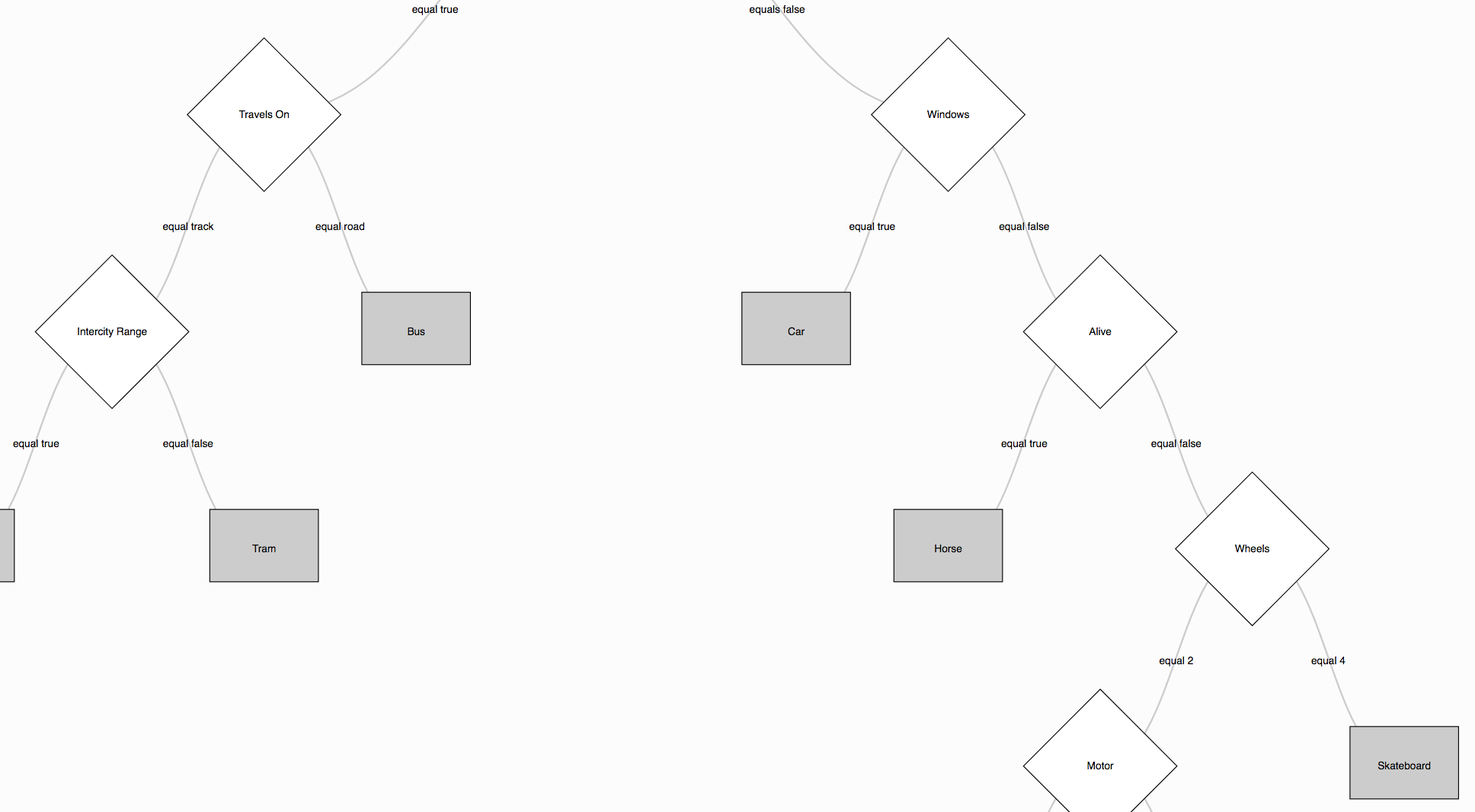
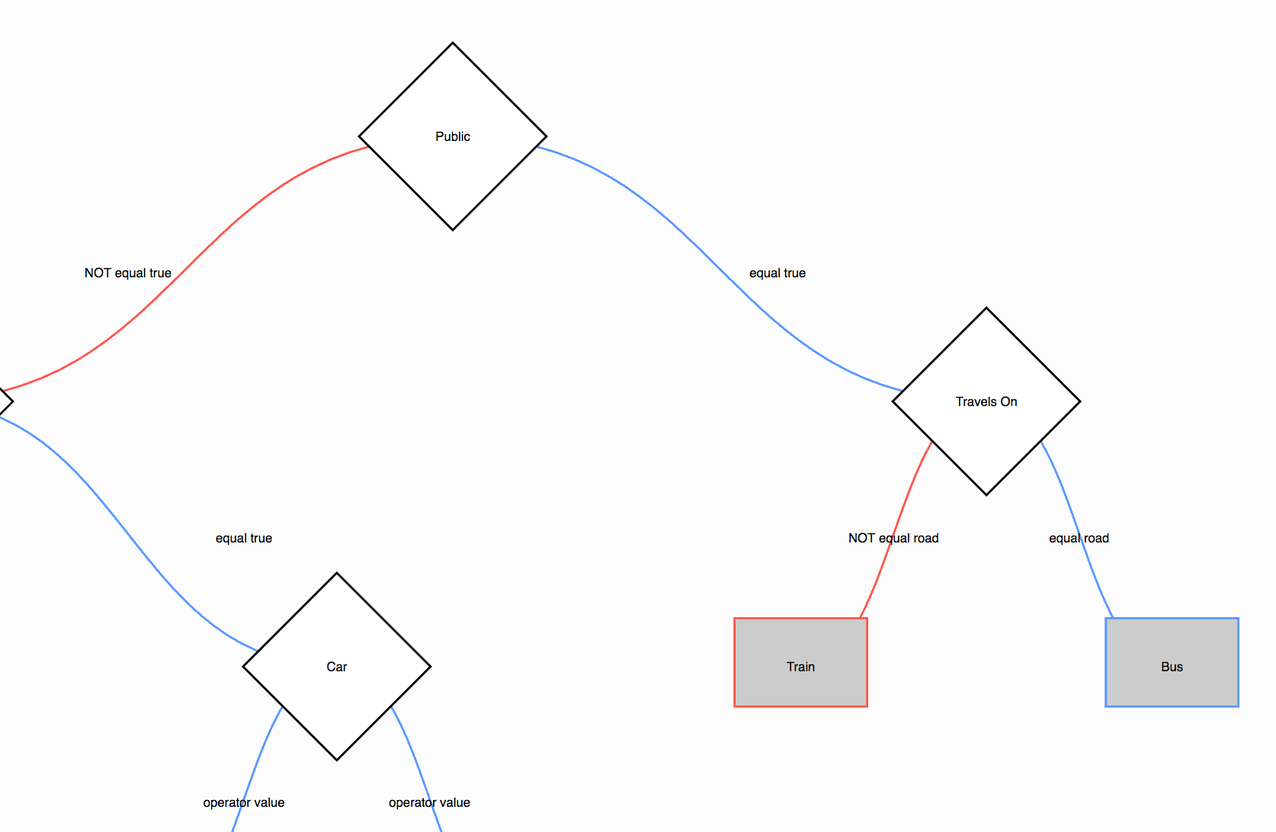
Add truthy/falsey link and node colouring

diff --git a/dist/decision-tree-builder.min.js b/dist/decision-tree-builder.min.js
@@ -1,1 +1,1 @@
-"use strict";!function(){var t=function(t,e){function r(t){var e=new CustomEvent("nodeClick",{detail:t});window.dispatchEvent(e)}function n(t,e,r){if(t){e(t);var a=r(t);if(a)for(var i=a.length,l=0;l<i;l++)n(a[l],e,r)}}function a(t,e){for(var r=t.length-1;r>=0;r--)for(var n=0;n<e.length;n++)t[r]&&t[r].id===e[n].id&&t.splice(r,1);return t}var i=e.layout.svgMargin,l=(e.layout.svgWidth-e.layout.svgMargin.left-e.layout.svgMargin.right,e.layout.svgHeight-e.layout.svgMargin.top-e.layout.svgMargin.bottom),d=e.layout.nodeWidth,o=e.layout.nodeHeight,c=e.layout.nodeMargin,s=e.layout.transitionDuration,h="#"+e.layout.divId,u=this,f=0;this.options=e,this.operatorFunctions=e.operatorFunctions,this.root=null,this.treeData=t,this.nodes=null,this.links=null,this.treemap=d3.tree().nodeSize([d+c.x,o+c.y]).separation(function(t,e){return t.parent==e.parent?1:1.25}),this.root=d3.hierarchy(this.treeData,function(t){return t.children});var p=d3.zoom().scaleExtent([.25,4]).on("zoom",function(){v.attr("transform","translate("+d3.event.transform.x+","+d3.event.transform.y+")scale("+d3.event.transform.k+")")}),y=d3.select(h).append("svg").attr("width","100%").attr("height",l+i.top+i.bottom).append("g").attr("transform","translate(0,-9999999) scale(1)").attr("id","treePanel"),v=d3.select("#treePanel"),g=d3.select("svg");g.call(p),this.queryDecisionTree=function(t){function e(r){return new Promise(function(n,i){r.children||n({result:r.data.classification,path:a});var l=r.data.property,d=r.children[1].data.operator,o=r.children[1].data.value,c=t[l],s=u.operatorFunctions[d];s(o,c).then(function(t){a+=t?1:0,n(t?e(r.children[1]):e(r.children[0]))})})}var r=this.treeData.descendants(),n=r[0],a="";return e(n)},this.cloneAndStripNode=function(t){function e(t){delete t.height,delete t.depth,delete t.id,delete t.parent,delete t.x,delete t.x0,delete t.y,delete t.y0,t.label=t.data.label,t.data.property&&(t.property=t.data.property),t.data.operator&&(t.operator=t.data.operator),t.data.hasOwnProperty("value")&&(t.value=t.data.value),t.data.classification&&(t.classification=t.data.classification),delete t.data,t.children&&t.children.forEach(function(t){e(t)})}var r=JSON.stringify(t,function(t,e){if("parent"!=t)return e});return r=JSON.parse(r),e(r),r},this.serialiseTreeToJSON=function(){function t(e){delete e.height,delete e.depth,delete e.id,delete e.parent,delete e.x,delete e.x0,delete e.y,delete e.y0,e.label=e.data.label,e.property=e.data.property,e.data.operator&&(e.operator=e.data.operator),e.data.hasOwnProperty("value")&&(e.value=e.data.value),e.data.classification&&(e.classification=e.data.classification),delete e.data,e.children&&e.children.forEach(function(e){t(e)})}var e=this.treeData.descendants(),r=JSON.stringify(e[0],function(t,e){if("parent"!=t)return e});return r=JSON.parse(r),t(r),JSON.stringify(r)},this.pruneNode=function(t){t.children&&t.children.length>0&&(delete t.children,delete t.data.children,this.update(t))},this.deleteNode=function(t){var e=this;n(this.treeData,function(r){if(r.children){var n=!0,i=!1,l=void 0;try{for(var d,o=r.children[Symbol.iterator]();!(n=(d=o.next()).done);n=!0){var c=d.value;if(c==t){r.children=a(r.children,[c]),e.update(e.root);break}}}catch(s){i=!0,l=s}finally{try{!n&&o["return"]&&o["return"]()}finally{if(i)throw l}}}},function(t){return t.children&&t.children.length>0?t.children:null})},this.updateNodeData=function(t,e){t.data=e,this.update(t)},this.updateDecisionNodeData=function(t,e){t.data.property=e.property,t.data.label=e.label,t.data.children||(t.data.children=[]),t.data.children[0].property=e.children[0].property,t.data.children[0].label=e.children[0].label,t.data.children[0].hasOwnProperty("value")&&(t.data.children[0].value=e.children[0].value),t.data.children[0].hasOwnProperty("operator")&&(t.data.children[0].operator=e.children[0].operator),t.data.children[0].hasOwnProperty("classification")&&(t.data.children[0].classification=e.children[0].classification),t.data.children[1].property=e.children[1].property,t.data.children[1].label=e.children[1].label,t.data.children[1].value=e.children[1].value,t.data.children[1].operator=e.children[1].operator,t.data.children[1].hasOwnProperty("classification")&&(t.data.children[1].classification=e.children[1].classification),this.update(t),this.setHighlighted(t,!0)},this.addChildNodes=function(t,e){t.children&&2==t.children.length||(e.forEach(function(e){var r=d3.hierarchy(e);r.depth=t.depth+1,r.height=t.height-1,r.parent=t,r.id=+new Date+parseInt(1e4*Math.random()),t.children||(t.children=[],t.data.children=[]),t.children.push(r),t.data.children.push(r.data)}),this.update(t),this.setHighlighted(t,!0),r(t))},this.centerNode=function(t){var e=d3.zoomTransform(g.node()),r=-t.y0,n=-t.x0;r=r*e.k+u.options.layout.svgWidth/2,n=n*e.k+u.options.layout.svgHeight/2,g.transition().duration(s).call(p.transform,d3.zoomIdentity.translate(r,n).scale(e.k))},this.collapse=function(t){t.children&&(t._children=t.children,t._children.forEach(u.collapse),t.children=null)},this.expand=function(t){t._children&&(t.children=t._children,t.children.forEach(u.expand),t._children=null)},this.collapseAll=function(){this.root.children.forEach(u.collapse),this.update(root)},this.expandAll=function(){this.root.children.forEach(u.expand),this.update(root)};var x=void 0;this.setHighlighted=function(t,e){return d3.selectAll(".node").select("rect").style("fill",function(t){return t._children||t.children?"#FFF":"#CCC"}),t&&t.id!=x||t.id&&e?(d3.select("#node-"+t.id).select("rect").style("fill","#10B0F0"),x=t.id,!0):(x=null,!1)},this.fitBounds=function(t,e){var r=v.node().getBBox(),n=v.node().parentElement,a=n.clientWidth,i=n.clientHeight,l=r.width,d=r.height,o=r.x+l/2,c=r.y+d/2;if(0!=l&&0!=d){var s=(t||.75)/Math.max(l/a,d/i),h=[a/2-s*o,i/2-s*c];g.transition().duration(e||0).call(p.transform,d3.zoomIdentity.translate(h[0],h[1]).scale(s))}},this.adjustBounds=function(t){g.transition().duration(t.duration||0).call(p.translateBy,t.x,t.y)},this.update=function(t){function e(t,e){var r="M "+t.x+" "+t.y+"\n\t\t\t\t            C "+(t.x+e.x)/2+" "+t.y+",\n\t\t\t\t              "+(t.x+e.x)/2+" "+e.y+",\n\t\t\t\t              "+e.x+" "+e.y;return r}function n(t){var e=u.setHighlighted(t,!1);r(e?t:null)}this.treeData=this.treemap(this.root),this.nodes=this.treeData.descendants(),this.links=this.treeData.descendants().slice(1),this.nodes.forEach(function(t){t.y=t.depth*c.y});var a=y.selectAll("g.node").data(u.nodes,function(t){return t.id||(t.id=++f)}),i=a.enter().append("g").attr("class","node").attr("id",function(t){return"node-"+t.id}).attr("transform",function(e){if(t.x0)return"translate("+t.x0+","+t.y0+")"}).on("click",n),l=a.selectAll("rect.node-rect");i.append("rect").attr("width",d/2).attr("class","node-rect").attr("height",function(t){return t._children||t.children?o/2:o/3}).attr("transform",function(t){return t._children||t.children?"rotate(45)":""}).attr("x",-(d/4)).attr("y",function(t){return t._children||t.children?-(o/4):-(o/5.5)}).attr("stroke","black").attr("stroke-width",2).attr("cursor","pointer").style("fill",function(t){return t._children||t.children?"#FFF":"#CCC"}),l.attr("height",function(t){return t._children||t.children?o/2:o/3}).attr("transform",function(t){return t._children||t.children?"rotate(45)":""}).attr("x",-(d/4)).attr("y",function(t){return t._children||t.children?-(o/4):-(o/5.5)}).style("fill",function(t){return t._children||t.children?"#FFF":"#CCC"});var h=a.selectAll("text.node-label");h.empty()||h.size()!=this.nodes.length?i.append("text").attr("dy",".35em").attr("class","node-label").attr("text-anchor","middle").text(function(t){return t.data.label}):h.text(function(t){return t.data.label});var p=a.selectAll("text.link-label");p.empty()||p.size()!=this.nodes.length?i.append("text").attr("dy",".65em").attr("class","link-label").attr("x",function(t){if(t.parent)return(t.parent.x-t.x)/2}).attr("y",function(t){if(t.parent)return(t.parent.y-t.y)/2}).attr("text-anchor","middle").text(function(t){if(t.parent)return t.data.operator&&t.data.hasOwnProperty("value")?t.data.operator+" "+t.data.value:"NOT "+t.parent.children[1].data.operator+" "+t.parent.children[1].data.value}):p.text(function(t){if(t.parent)return t.data.operator&&t.data.hasOwnProperty("value")?t.data.operator+" "+t.data.value:"NOT "+t.parent.children[1].data.operator+" "+t.parent.children[1].data.value});var v=i.merge(a);v.transition().duration(s).attr("transform",function(t){return"translate("+t.x+","+t.y+")"}),v.select("rect.node").attr("width",d).attr("height",o).style("fill",function(t){return t._children?"lightsteelblue":"#fff"}).attr("cursor","pointer");var g=a.exit().transition().duration(s).attr("transform",function(e){return"translate("+t.x+","+t.y+")"}).remove();g.select("rect").attr("width",0).attr("height",0),g.select("text").style("fill-opacity",1e-6);var x=y.selectAll("path.link").data(u.links,function(t){return t.id}),m=x.enter().insert("path","g").attr("class","link").attr("d",function(r){if(!t.x0)return e({x:0,y:0},{x:0,y:0});var n={x:t.x0,y:t.y0};return e(n,n)}),b=m.merge(x);b.transition().duration(s).attr("d",function(t){return e(t,t.parent)});x.exit().transition().duration(s).attr("d",function(r){var n={x:t.x,y:t.y};return e(n,n)}).remove();u.nodes.forEach(function(t){t.x0=t.x,t.y0=t.y})},this.update(this.root),setTimeout(function(){u.fitBounds(.7,0)},1e3)};"function"==typeof define&&define.amd?define(function(){return t}):"undefined"!=typeof exports?("undefined"!=typeof module&&module.exports&&(exports=module.exports=t),exports.DecisionTreeBuilder=t):window.DecisionTreeBuilder=t}(void 0);
+"use strict";!function(){var t=function(t,e){function r(t){var e=new CustomEvent("nodeClick",{detail:t});window.dispatchEvent(e)}function n(t,e,r){if(t){e(t);var a=r(t);if(a)for(var i=a.length,l=0;l<i;l++)n(a[l],e,r)}}function a(t,e){for(var r=t.length-1;r>=0;r--)for(var n=0;n<e.length;n++)t[r]&&t[r].id===e[n].id&&t.splice(r,1);return t}var i=e.layout.svgMargin,l=(e.layout.svgWidth-e.layout.svgMargin.left-e.layout.svgMargin.right,e.layout.svgHeight-e.layout.svgMargin.top-e.layout.svgMargin.bottom),o=e.layout.nodeWidth,d=e.layout.nodeHeight,c=e.layout.nodeMargin,s=e.layout.transitionDuration,h="#"+e.layout.divId,u=this,f=0;this.options=e,this.operatorFunctions=e.operatorFunctions,this.root=null,this.treeData=t,this.nodes=null,this.links=null,this.treemap=d3.tree().nodeSize([o+c.x,d+c.y]).separation(function(t,e){return t.parent==e.parent?1:1.25}),this.root=d3.hierarchy(this.treeData,function(t){return t.children});var p=d3.zoom().scaleExtent([.25,4]).on("zoom",function(){v.attr("transform","translate("+d3.event.transform.x+","+d3.event.transform.y+")scale("+d3.event.transform.k+")")}),y=d3.select(h).append("svg").attr("width","100%").attr("height",l+i.top+i.bottom).append("g").attr("transform","translate(0,-9999999) scale(1)").attr("id","treePanel"),v=d3.select("#treePanel"),g=d3.select("svg");g.call(p),this.queryDecisionTree=function(t){function e(r){return new Promise(function(n,i){r.children||n({result:r.data.classification,path:a});var l=r.data.property,o=r.children[1].data.operator,d=r.children[1].data.value,c=t[l],s=u.operatorFunctions[o];s(d,c).then(function(t){a+=t?1:0,n(t?e(r.children[1]):e(r.children[0]))})})}var r=this.treeData.descendants(),n=r[0],a="";return e(n)},this.cloneAndStripNode=function(t){function e(t){delete t.height,delete t.depth,delete t.id,delete t.parent,delete t.x,delete t.x0,delete t.y,delete t.y0,t.label=t.data.label,t.data.property&&(t.property=t.data.property),t.data.operator&&(t.operator=t.data.operator),t.data.hasOwnProperty("value")&&(t.value=t.data.value),t.data.classification&&(t.classification=t.data.classification),delete t.data,t.children&&t.children.forEach(function(t){e(t)})}var r=JSON.stringify(t,function(t,e){if("parent"!=t)return e});return r=JSON.parse(r),e(r),r},this.serialiseTreeToJSON=function(){function t(e){delete e.height,delete e.depth,delete e.id,delete e.parent,delete e.x,delete e.x0,delete e.y,delete e.y0,e.label=e.data.label,e.property=e.data.property,e.data.operator&&(e.operator=e.data.operator),e.data.hasOwnProperty("value")&&(e.value=e.data.value),e.data.classification&&(e.classification=e.data.classification),delete e.data,e.children&&e.children.forEach(function(e){t(e)})}var e=this.treeData.descendants(),r=JSON.stringify(e[0],function(t,e){if("parent"!=t)return e});return r=JSON.parse(r),t(r),JSON.stringify(r)},this.pruneNode=function(t){t.children&&t.children.length>0&&(delete t.children,delete t.data.children,this.update(t))},this.deleteNode=function(t){var e=this;n(this.treeData,function(r){if(r.children){var n=!0,i=!1,l=void 0;try{for(var o,d=r.children[Symbol.iterator]();!(n=(o=d.next()).done);n=!0){var c=o.value;if(c==t){r.children=a(r.children,[c]),e.update(e.root);break}}}catch(s){i=!0,l=s}finally{try{!n&&d["return"]&&d["return"]()}finally{if(i)throw l}}}},function(t){return t.children&&t.children.length>0?t.children:null})},this.updateNodeData=function(t,e){t.data=e,this.update(t)},this.updateDecisionNodeData=function(t,e){t.data.property=e.property,t.data.label=e.label,t.data.children||(t.data.children=[]),t.data.children[0].property=e.children[0].property,t.data.children[0].label=e.children[0].label,t.data.children[0].hasOwnProperty("value")&&(t.data.children[0].value=e.children[0].value),t.data.children[0].hasOwnProperty("operator")&&(t.data.children[0].operator=e.children[0].operator),t.data.children[0].hasOwnProperty("classification")&&(t.data.children[0].classification=e.children[0].classification),t.data.children[1].property=e.children[1].property,t.data.children[1].label=e.children[1].label,t.data.children[1].value=e.children[1].value,t.data.children[1].operator=e.children[1].operator,t.data.children[1].hasOwnProperty("classification")&&(t.data.children[1].classification=e.children[1].classification),this.update(t),this.setHighlighted(t,!0)},this.addChildNodes=function(t,e){!t||t.children&&2==t.children.length||(e.forEach(function(e){var r=d3.hierarchy(e);r.depth=t.depth+1,r.height=t.height-1,r.parent=t,r.id=+new Date+parseInt(1e4*Math.random()),t.children||(t.children=[],t.data.children=[]),t.children.push(r),t.data.children.push(r.data)}),this.update(t),this.setHighlighted(t,!0),r(t))},this.centerNode=function(t){var e=d3.zoomTransform(g.node()),r=-t.y0,n=-t.x0;r=r*e.k+u.options.layout.svgWidth/2,n=n*e.k+u.options.layout.svgHeight/2,g.transition().duration(s).call(p.transform,d3.zoomIdentity.translate(r,n).scale(e.k))},this.collapse=function(t){t.children&&(t._children=t.children,t._children.forEach(u.collapse),t.children=null)},this.expand=function(t){t._children&&(t.children=t._children,t.children.forEach(u.expand),t._children=null)},this.collapseAll=function(){this.root.children.forEach(u.collapse),this.update(root)},this.expandAll=function(){this.root.children.forEach(u.expand),this.update(root)};var x=void 0;this.setHighlighted=function(t,e){return d3.selectAll(".node").select("rect").style("fill",function(t){return t._children||t.children?"#FFF":"#CCC"}),t&&t.id!=x||t.id&&e?(d3.select("#node-"+t.id).select("rect").style("fill","#10B0F0"),x=t.id,!0):(x=null,!1)},this.fitBounds=function(t,e){var r=v.node().getBBox(),n=v.node().parentElement,a=n.clientWidth,i=n.clientHeight,l=r.width,o=r.height,d=r.x+l/2,c=r.y+o/2;if(0!=l&&0!=o){var s=(t||.75)/Math.max(l/a,o/i),h=[a/2-s*d,i/2-s*c];g.transition().duration(e||0).call(p.transform,d3.zoomIdentity.translate(h[0],h[1]).scale(s))}},this.adjustBounds=function(t){g.transition().duration(t.duration||0).call(p.translateBy,t.x,t.y)},this.update=function(t){function e(t,e){var r="M "+t.x+" "+t.y+"\n\t\t\t\t            C "+(t.x+e.x)/2+" "+t.y+",\n\t\t\t\t              "+(t.x+e.x)/2+" "+e.y+",\n\t\t\t\t              "+e.x+" "+e.y;return r}function n(t){var e=u.setHighlighted(t,!1);r(e?t:null)}this.treeData=this.treemap(this.root),this.nodes=this.treeData.descendants(),this.links=this.treeData.descendants().slice(1),this.nodes.forEach(function(t){t.y=t.depth*c.y});var a=y.selectAll("g.node").data(u.nodes,function(t){return t.id||(t.id=++f)}),i=a.enter().append("g").attr("class","node").attr("id",function(t){return"node-"+t.id}).attr("transform",function(e){if(t.x0)return"translate("+t.x0+","+t.y0+")"}).on("click",n),l=a.selectAll("rect.node-rect");i.append("rect").attr("width",o/2).attr("class",function(t){return t.data.children?"node-rect":t.data.operator&&t.data.hasOwnProperty("value")?"node-rect truthy-node":"node-rect falsey-node"}).attr("height",function(t){return t._children||t.children?d/2:d/3}).attr("transform",function(t){return t._children||t.children?"rotate(45)":""}).attr("x",-(o/4)).attr("y",function(t){return t._children||t.children?-(d/4):-(d/5.5)}).attr("stroke","black").attr("stroke-width",2).attr("cursor","pointer").style("fill",function(t){return t._children||t.children?"#FFF":"#CCC"}),l.attr("height",function(t){return t._children||t.children?d/2:d/3}).attr("transform",function(t){return t._children||t.children?"rotate(45)":""}).attr("x",-(o/4)).attr("y",function(t){return t._children||t.children?-(d/4):-(d/5.5)}).attr("class",function(t){return t.data.children?"node-rect":t.data.operator&&t.data.hasOwnProperty("value")?"node-rect truthy-node":"node-rect falsey-node"}).style("fill",function(t){return t._children||t.children?"#FFF":"#CCC"});var h=a.selectAll("text.node-label");h.empty()||h.size()!=this.nodes.length?i.append("text").attr("dy",".35em").attr("class","node-label").attr("text-anchor","middle").text(function(t){return t.data.label}):h.text(function(t){return t.data.label});var p=a.selectAll("text.link-label");p.empty()||p.size()!=this.nodes.length?i.append("text").attr("dy",".65em").attr("class","link-label").attr("x",function(t){if(t.parent)return(t.parent.x-t.x)/2}).attr("y",function(t){if(t.parent)return(t.parent.y-t.y)/2}).attr("text-anchor","middle").text(function(t){if(t.parent)return t.data.operator&&t.data.hasOwnProperty("value")?t.data.operator+" "+t.data.value:"NOT "+t.parent.children[1].data.operator+" "+t.parent.children[1].data.value}):p.text(function(t){if(t.parent)return t.data.operator&&t.data.hasOwnProperty("value")?t.data.operator+" "+t.data.value:"NOT "+t.parent.children[1].data.operator+" "+t.parent.children[1].data.value});var v=i.merge(a);v.transition().duration(s).attr("transform",function(t){return"translate("+t.x+","+t.y+")"}),v.select("rect.node").attr("width",o).attr("height",d).style("fill",function(t){return t._children?"lightsteelblue":"#fff"}).attr("cursor","pointer");var g=a.exit().transition().duration(s).attr("transform",function(e){return"translate("+t.x+","+t.y+")"}).remove();g.select("rect").attr("width",0).attr("height",0),g.select("text").style("fill-opacity",1e-6);var x=y.selectAll("path.link").data(u.links,function(t){return t.id}).attr("class",function(t){return t.data.operator&&t.data.hasOwnProperty("value")?"link truthy-link":"link falsey-link"}),m=x.enter().insert("path","g").attr("class",function(t){return t.data.operator&&t.data.hasOwnProperty("value")?"link truthy-link":"link falsey-link"}).attr("d",function(r){if(!t.x0)return e({x:0,y:0},{x:0,y:0});var n={x:t.x0,y:t.y0};return e(n,n)}),w=m.merge(x);w.transition().duration(s).attr("d",function(t){return e(t,t.parent)});x.exit().transition().duration(s).attr("d",function(r){var n={x:t.x,y:t.y};return e(n,n)}).remove();u.nodes.forEach(function(t){t.x0=t.x,t.y0=t.y})},this.update(this.root),setTimeout(function(){u.fitBounds(.7,0)},1e3)};"function"==typeof define&&define.amd?define(function(){return t}):"undefined"!=typeof exports?("undefined"!=typeof module&&module.exports&&(exports=module.exports=t),exports.DecisionTreeBuilder=t):window.DecisionTreeBuilder=t}(void 0);

diff --git a/dist/decision-tree-builder.js b/dist/decision-tree-builder.js
@@ -335,7 +335,7 @@
 		this.addChildNodes = function (originalNode, newChildren) {
 
 			// you can only add child nodes to a leaf
-			if (originalNode.children && originalNode.children.length == 2) return;
+			if (!originalNode || originalNode.children && originalNode.children.length == 2) return;
 
 			newChildren.forEach(function (d) {
 
@@ -490,7 +490,20 @@
 			var nodeRects = node.selectAll("rect.node-rect");
 
 			// add any new rect nodes
-			nodeEnter.append("rect").attr("width", nodeWidth / 2).attr("class", "node-rect").attr("height", function (d) {
+			nodeEnter.append("rect").attr("width", nodeWidth / 2).attr("class", function (d) {
+				// decision
+				if (d.data.children) {
+					return "node-rect";
+				}
+				// truthy child
+				else if (d.data.operator && d.data.hasOwnProperty('value')) {
+						return "node-rect truthy-node";
+					}
+					// falsey child
+					else {
+							return "node-rect falsey-node";
+						}
+			}).attr("height", function (d) {
 				return !d._children && !d.children ? nodeHeight / 3 : nodeHeight / 2;
 			}).attr("transform", function (d) {
 				return !d._children && !d.children ? "" : "rotate(45)";
@@ -508,6 +521,19 @@
 				return !d._children && !d.children ? "" : "rotate(45)";
 			}).attr("x", -(nodeWidth / 4)).attr("y", function (d) {
 				return !d._children && !d.children ? -(nodeHeight / 5.5) : -(nodeHeight / 4);
+			}).attr("class", function (d) {
+				// decision
+				if (d.data.children) {
+					return "node-rect";
+				}
+				// truthy child
+				else if (d.data.operator && d.data.hasOwnProperty('value')) {
+						return "node-rect truthy-node";
+					}
+					// falsey child
+					else {
+							return "node-rect falsey-node";
+						}
 			}).style("fill", function (d) {
 				return !d._children && !d.children ? "#CCC" : "#FFF";
 			});
@@ -598,10 +624,29 @@
 			// Update the links...
 			var link = svg.selectAll('path.link').data(self.links, function (d) {
 				return d.id;
+			}).attr("class", function (d) {
+				// truthy child
+				if (d.data.operator && d.data.hasOwnProperty('value')) {
+					return "link truthy-link";
+				}
+				// falsey child
+				else {
+						return "link falsey-link";
+					}
 			});
 
 			// Enter any new links at the parent's previous position.
-			var linkEnter = link.enter().insert('path', "g").attr("class", "link").attr('d', function (d) {
+			var linkEnter = link.enter().insert('path', "g").attr("class", function (d) {
+
+				// truthy child
+				if (d.data.operator && d.data.hasOwnProperty('value')) {
+					return "link truthy-link";
+				}
+				// falsey child
+				else {
+						return "link falsey-link";
+					}
+			}).attr('d', function (d) {
 				// if no previous pos, just use zero
 				if (!source.x0) return _diagonal({ x: 0, y: 0 }, { x: 0, y: 0 });
 				var o = { x: source.x0, y: source.y0 };

diff --git a/src/js/decision-tree-builder.js b/src/js/decision-tree-builder.js
@@ -334,7 +334,7 @@
 		this.addChildNodes = function(originalNode, newChildren){
 
 			// you can only add child nodes to a leaf
-			if(originalNode.children && originalNode.children.length == 2) return;
+			if(!originalNode || originalNode.children && originalNode.children.length == 2) return;
 
 			newChildren.forEach(function(d){
 
@@ -503,7 +503,20 @@
 			// add any new rect nodes
 			nodeEnter.append("rect")
 				.attr("width", nodeWidth / 2)
-				.attr("class", "node-rect")
+				.attr("class", function(d){
+					// decision
+					if(d.data.children){
+						return "node-rect";
+					}
+					// truthy child
+					else if(d.data.operator && d.data.hasOwnProperty('value')){
+						return "node-rect truthy-node";
+					}
+					// falsey child
+					else {
+						return "node-rect falsey-node";
+					}
+				})
 				.attr("height", function(d){
 					return (!d._children && !d.children) ? nodeHeight / 3 : nodeHeight / 2;
 				})
@@ -532,6 +545,20 @@
 				.attr("x", -(nodeWidth / 4))
 				.attr("y", function(d){
 					return (!d._children && !d.children) ? -(nodeHeight / 5.5) : -(nodeHeight / 4);
+				})
+				.attr("class", function(d){
+					// decision
+					if(d.data.children){
+						return "node-rect";
+					}
+					// truthy child
+					else if(d.data.operator && d.data.hasOwnProperty('value')){
+						return "node-rect truthy-node";
+					}
+					// falsey child
+					else {
+						return "node-rect falsey-node";
+					}
 				})
 				.style("fill", function (d) {
 					return (!d._children && !d.children) ? "#CCC" : "#FFF";
@@ -648,11 +675,31 @@
 			let link = svg.selectAll('path.link')
 				.data(self.links, function (d) {
 					return d.id;
+				}).attr("class", function(d){
+					// truthy child
+					if(d.data.operator && d.data.hasOwnProperty('value')){
+						return "link truthy-link";
+					}
+					// falsey child
+					else {
+						return "link falsey-link";
+					}
 				});
 
 			// Enter any new links at the parent's previous position.
 			let linkEnter = link.enter().insert('path', "g")
-				.attr("class", "link")
+				.attr("class", function(d){
+
+					// truthy child
+					if(d.data.operator && d.data.hasOwnProperty('value')){
+						return "link truthy-link";
+					}
+					// falsey child
+					else {
+						return "link falsey-link";
+					}
+
+				})
 				.attr('d', function (d) {
 					// if no previous pos, just use zero
 					if(!source.x0) return  _diagonal({x: 0, y: 0}, {x: 0, y: 0});

diff --git a/demo/demo.html b/demo/demo.html
@@ -4,19 +4,8 @@
 	<title>Decision Tree Builder</title>
 	<meta http-equiv="Content-Type" content="text/html; charset=UTF-8">
 	<link rel="stylesheet" href="../dist/decision-tree-builder.css"/>
+	<link rel="stylesheet" href="demo.css"/>
 	<script src="../node_modules/d3/build/d3.js"></script>
-	<style>
-		body {
-			background: #CCC;
-			padding: 20px 20px 20px 20px;
-		}
-
-		#tree-panel {
-			position: relative;
-			background: #fcfcfc;
-			overflow: hidden;
-		}
-	</style>
 </head>
 <body>
 <div id="tree-panel"></div>

diff --git a/demo/demo.js b/demo/demo.js
@@ -1,6 +1,8 @@
 
 var options = {
 
+	//colorDecisionLines: true,
+
 	layout: {
 		divId: "tree-panel",
 		svgWidth: 1200,
@@ -102,8 +104,8 @@ window.addEventListener('nodeClick', function (e) {
 	var node = e.detail;
 
 	// method examples
-	//addNodes(node);
-	editNode(node);
+	addNodes(node);
+	//editNode(node);
 	//pruneNode(node);
 	//console.log(myBuilder.serialiseTreeToJSON());
 	//queryTree();

diff --git a/demo/demo.css b/demo/demo.css
@@ -1,0 +1,27 @@
+body {
+    background: #CCC;
+    padding: 20px 20px 20px 20px;
+}
+
+#tree-panel {
+    position: relative;
+    background: #fcfcfc;
+    overflow: hidden;
+}
+
+/* optional link coloring */
+.truthy-link {
+     stroke: #5998ff;
+}
+
+.truthy-node {
+    stroke: #5998ff;
+}
+
+.falsey-link {
+    stroke: #ff554b;
+}
+
+.falsey-node {
+    stroke: #ff554b;
+}

diff --git a/dist/decision-tree-builder.min.css b/dist/decision-tree-builder.min.css
@@ -1,1 +1,1 @@
-.node circle{fill:#fff;stroke:#4682b4;stroke-width:3px}.node text{font:12px sans-serif}.link{fill:none;stroke:#ccc;stroke-width:2px}
+.node text{font:12px sans-serif}.link{fill:none;stroke:#ccc;stroke-width:2px}

diff --git a/src/css/tree.css b/src/css/tree.css
@@ -1,10 +1,4 @@
 
-.node circle {
-    fill: #fff;
-    stroke: steelblue;
-    stroke-width: 3px;
-}
-
 .node text {
     font: 12px sans-serif;
 }

diff --git a/dist/decision-tree-builder.css b/dist/decision-tree-builder.css
@@ -1,9 +1,3 @@
-.node circle {
-  fill: #fff;
-  stroke: steelblue;
-  stroke-width: 3px;
-}
-
 .node text {
   font: 12px sans-serif;
 }

diff --git a/README.md b/README.md
@@ -76,12 +76,17 @@ window.addEventListener('nodeClick', function (e) {
 });
 ```
 
+You can optionally color stroke of nodes and links based on their truthy/falsey status, see `tree.css` for example.
+
 ## core methods
 * `addChildNodes(node, newNodesData)`
-* `updateNodeData(node, newData)`
+* `updateDecisionNodeData(node, newData)`
 * `pruneNode(node)`
 * `serialiseTreeToJSON()`
 * `queryDecisionTree(target)` // returns the value of resulting leaf node, and a binary path to the result.
+* `setHighlighted(node, ignoreToggleState)`
+* `fitBounds(paddingPercent, transitionDuration)`
+* `adjustBounds(offset)`
 
 See `demo/demo.js` for example.
 
